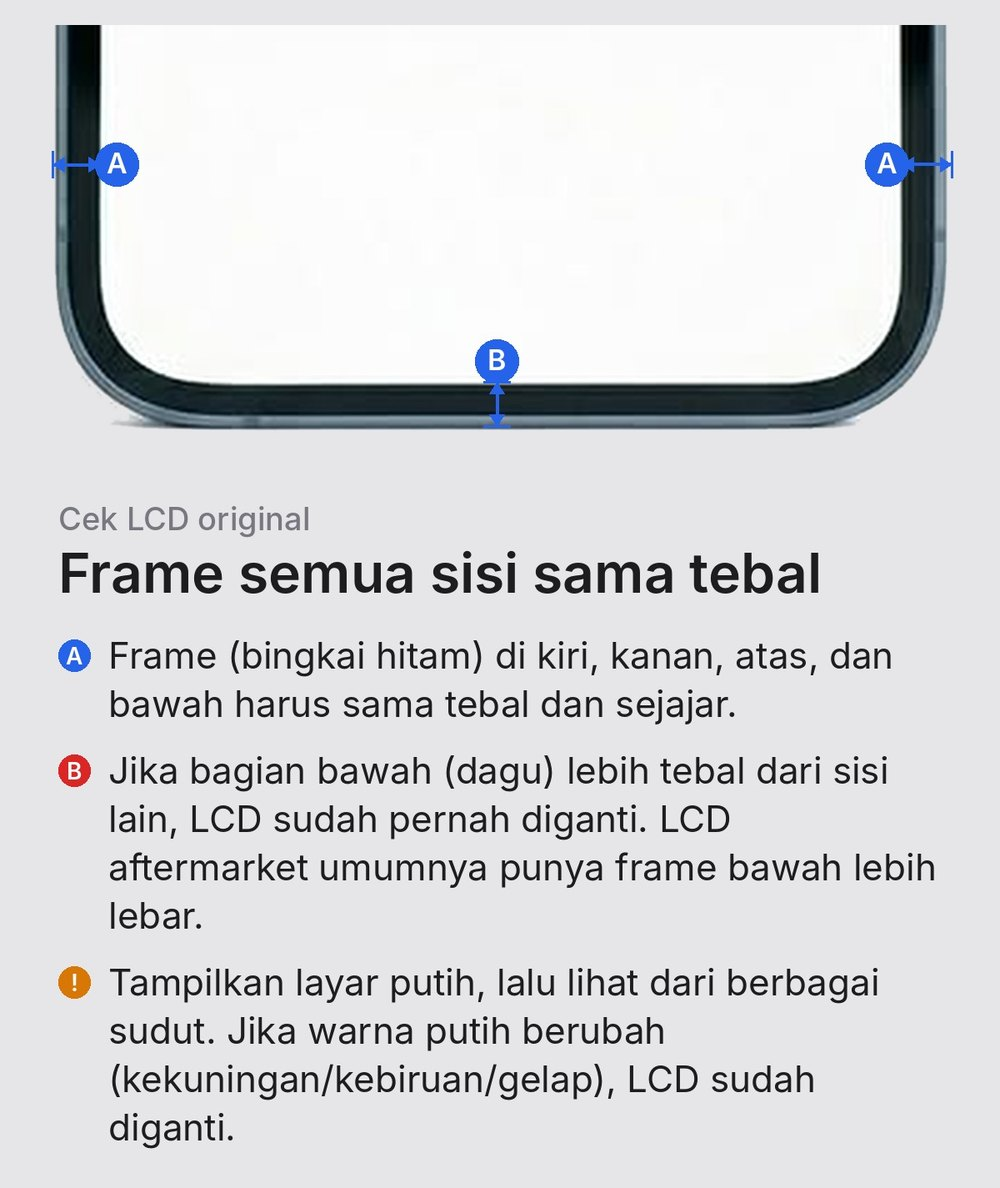
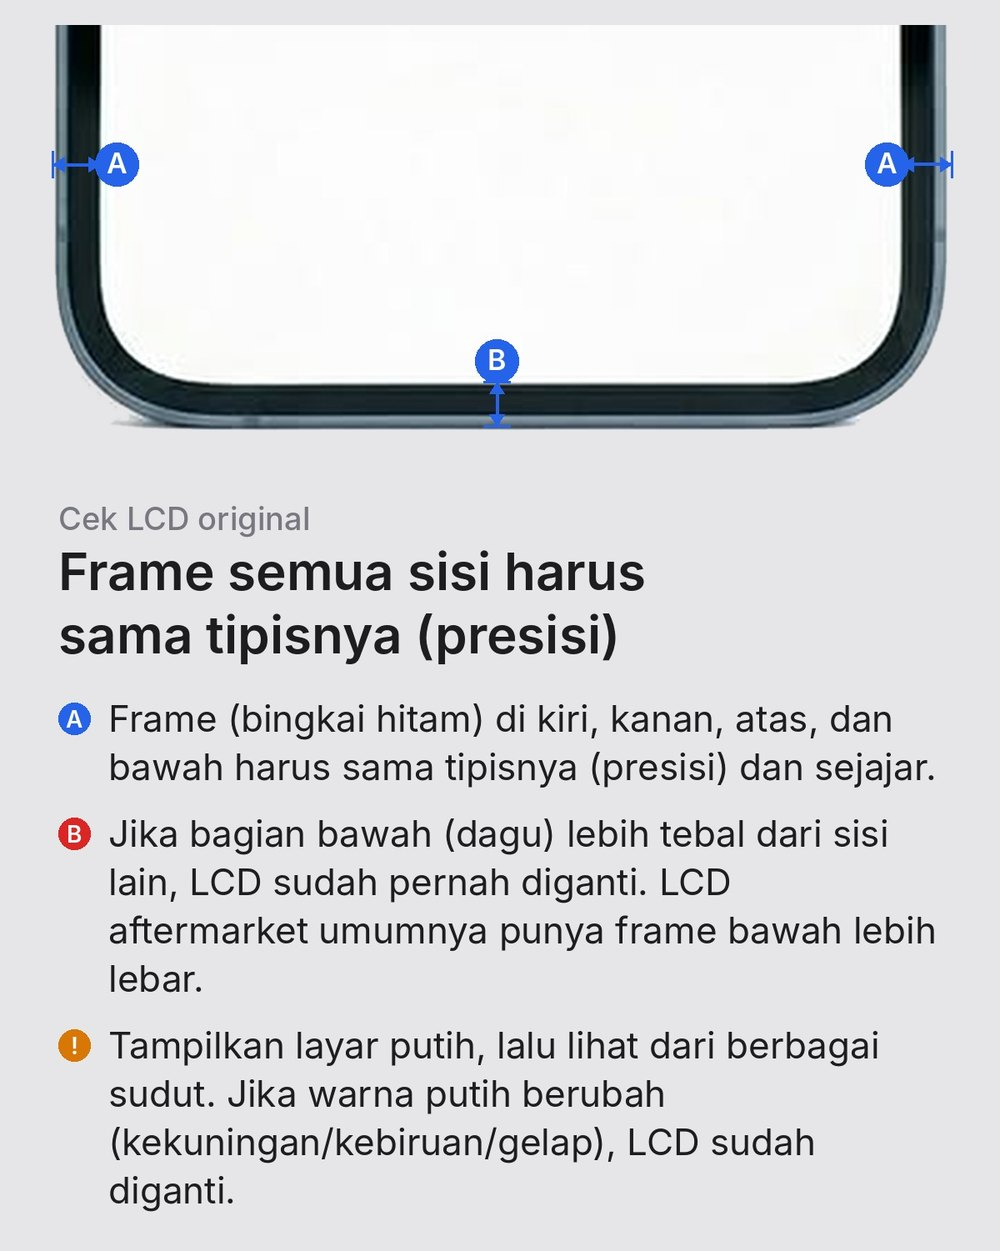
Gambar cek LCD: 'Frame semua sisi harus sama tipisnya (presisi)'
Claude-Session: https://claude.ai/code/session_01T5xMfUmYxqi5fKuphGFddX

diff --git a/index.html b/index.html
@@ -357,7 +357,7 @@ const SEC=[
 "s": "Status LCD",
 "d": "Tanyakan ke penjual, cek pesan/peringatan layar atau menu Parts and Service History di Settings › General › About, dan cek apakah tombol True Tone ada di Control Center (tahan slider kecerahan). Cek juga Auto-Brightness di bagian Pengecekan Fungsi.",
 "w": [
-"Frame (bingkai hitam) di semua sisi harus sama tebal. Jika bagian bawah/dagu lebih tebal, atau layar terangkat dan bercelah dari frame, LCD sudah pernah diganti. Tampilkan layar putih dan lihat dari berbagai sudut: jika warnanya berubah, itu juga tanda LCD gantian.",
+"Frame (bingkai hitam) di semua sisi harus sama tipisnya (presisi). Jika bagian bawah/dagu lebih tebal, atau layar terangkat dan bercelah dari frame, LCD sudah pernah diganti. Tampilkan layar putih dan lihat dari berbagai sudut: jika warnanya berubah, itu juga tanda LCD gantian.",
 "Jika LCD sudah diganti (bukan original), responsivitas layar akan menurun: sentuhan bisa kurang peka atau delay, warna dan kecerahan bisa berbeda, fitur seperti True Tone atau Auto-Brightness bisa hilang, dan lebih mudah bermasalah.",
 "Nilai jual unit juga lebih rendah, jadi pastikan harga disesuaikan dan penjual jujur soal ini."
 ],

diff --git a/sw.js b/sw.js
@@ -1,4 +1,4 @@
-const C="cek-iphone-v34";
+const C="cek-iphone-v35";
 const CORE=["./","./index.html"];
 self.addEventListener("install",e=>{
   // cache:"reload" = ambil langsung dari server, jangan dari cache browser
